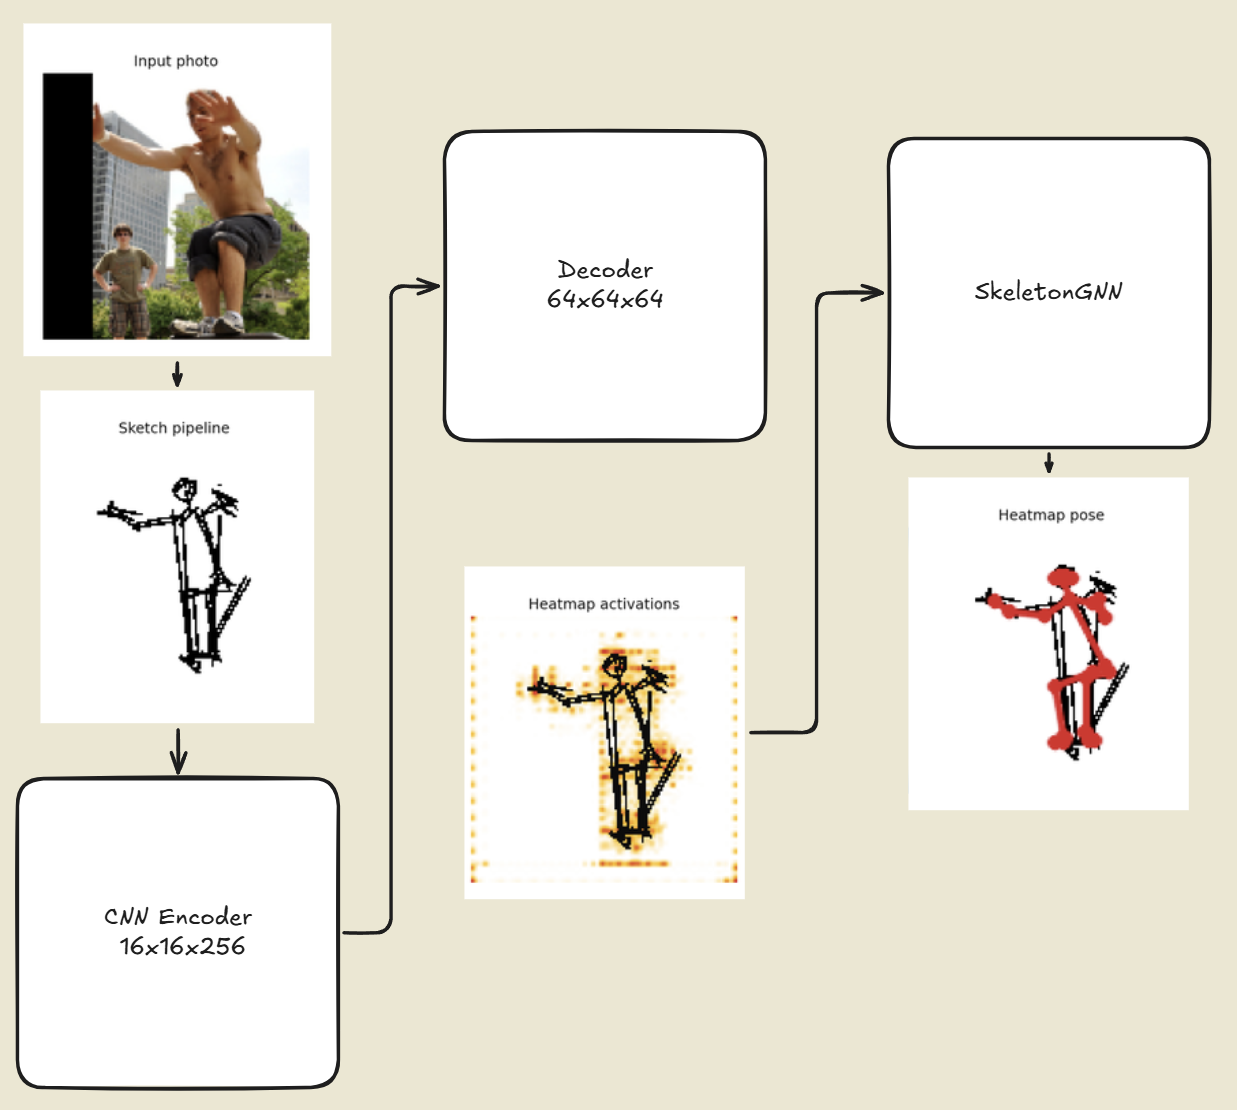
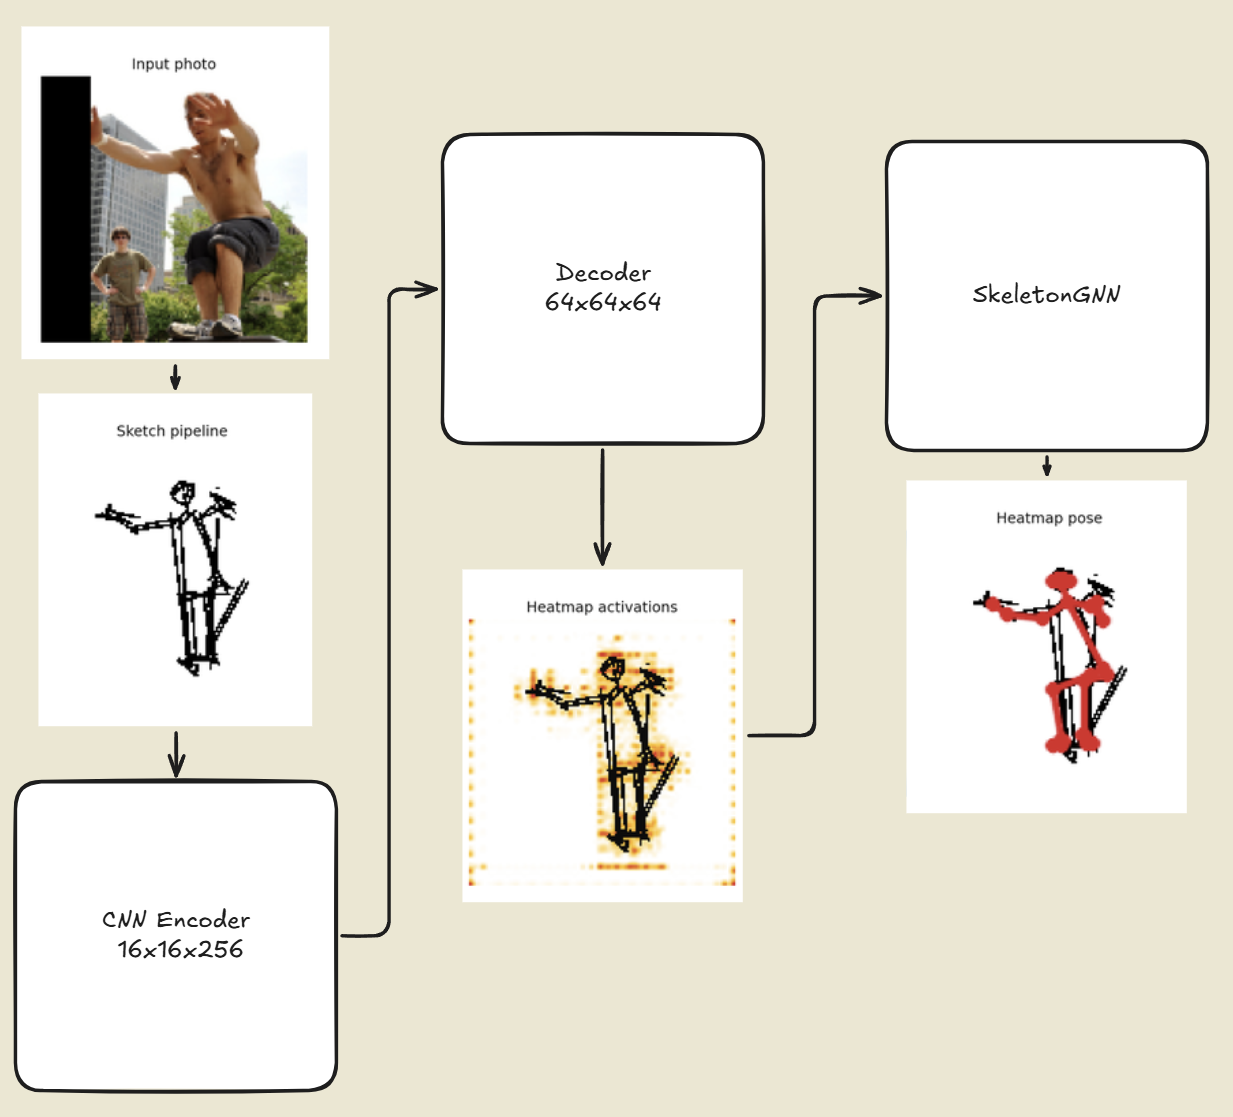
add tracking to acsu events

diff --git a/src/lib/redirects.ts b/src/lib/redirects.ts
@@ -1,0 +1,120 @@
+import redirectsJson from '@/data/redirects.json';
+
+export type RedirectEvent = {
+  name: string;
+  date: string;
+  destination: string;
+  channels?: string[];
+};
+
+export type RedirectsByGroup = Record<string, RedirectEvent[]>;
+
+export type RedirectRoute = {
+  slug: string;
+  destination: string;
+  group?: string;
+  event: string;
+  eventTitle: string;
+  channel?: string;
+  date: string;
+};
+
+const redirectsByGroup = redirectsJson as RedirectsByGroup;
+
+export function slugify(value: string): string {
+  return value
+    .trim()
+    .toLowerCase()
+    .replace(/['’]/g, '')
+    .replace(/[^a-z0-9]+/g, '-')
+    .replace(/^-+|-+$/g, '');
+}
+
+function joinSlug(...parts: string[]): string {
+  return parts.map(slugify).filter(Boolean).join('-');
+}
+
+function assertDestination(destination: string, context: string): void {
+  try {
+    const url = new URL(destination);
+    if (url.protocol !== 'http:' && url.protocol !== 'https:') {
+      throw new Error('Destination must be an http(s) URL');
+    }
+  } catch {
+    throw new Error(`Invalid destination for ${context}: ${destination}`);
+  }
+}
+
+/**
+ * Builds hop URLs from `src/data/redirects.json`.
+ *
+ * Grouped by team, then a list of events you can append to.
+ * Each event generates:
+ *   /go/{group}-{event}-{channel}-{date}  (one per channel)
+ *   /go/{event}-{date}                    (general, all traffic)
+ *
+ * Example: academic + "research night" + linkedin + 08-01-2026
+ *   /go/academic-research-night-linkedin-08-01-2026
+ *   /go/research-night-08-01-2026
+ */
+export function getRedirectRoutes(): RedirectRoute[] {
+  const routes: RedirectRoute[] = [];
+  const seen = new Map<string, RedirectRoute>();
+
+  for (const [group, events] of Object.entries(redirectsByGroup)) {
+    for (const event of events) {
+      const eventSlug = slugify(event.name);
+      const dateSlug = slugify(event.date);
+      const context = `${group}/${event.name}/${event.date}`;
+
+      if (!eventSlug || !dateSlug) {
+        throw new Error(`Event name and date are required for ${context}`);
+      }
+
+      assertDestination(event.destination, context);
+
+      const base = {
+        destination: event.destination,
+        event: eventSlug,
+        eventTitle: event.name.trim(),
+        date: event.date,
+      };
+
+      const addRoute = (route: RedirectRoute) => {
+        const existing = seen.get(route.slug);
+        if (existing && existing.destination !== route.destination) {
+          throw new Error(
+            `Redirect slug collision for "${route.slug}" (${existing.destination} vs ${route.destination})`,
+          );
+        }
+        if (!existing) {
+          seen.set(route.slug, route);
+          routes.push(route);
+        }
+      };
+
+      for (const channel of event.channels ?? []) {
+        const channelSlug = slugify(channel);
+        if (!channelSlug) continue;
+
+        addRoute({
+          ...base,
+          slug: joinSlug(group, eventSlug, channelSlug, dateSlug),
+          group: slugify(group),
+          channel: channelSlug,
+        });
+      }
+
+      addRoute({
+        ...base,
+        slug: joinSlug(eventSlug, dateSlug),
+      });
+    }
+  }
+
+  return routes;
+}
+
+export function getRedirectBySlug(slug: string): RedirectRoute | undefined {
+  return getRedirectRoutes().find((route) => route.slug === slug);
+}

diff --git a/src/env.d.ts b/src/env.d.ts
@@ -1,0 +1,11 @@
+/// <reference types="astro/client" />
+
+interface ImportMetaEnv {
+  readonly PUBLIC_GA_MEASUREMENT_ID?: string;
+  readonly POSTHOG_KEY?: string;
+  readonly POSTHOG_HOST?: string;
+}
+
+interface ImportMeta {
+  readonly env: ImportMetaEnv;
+}
